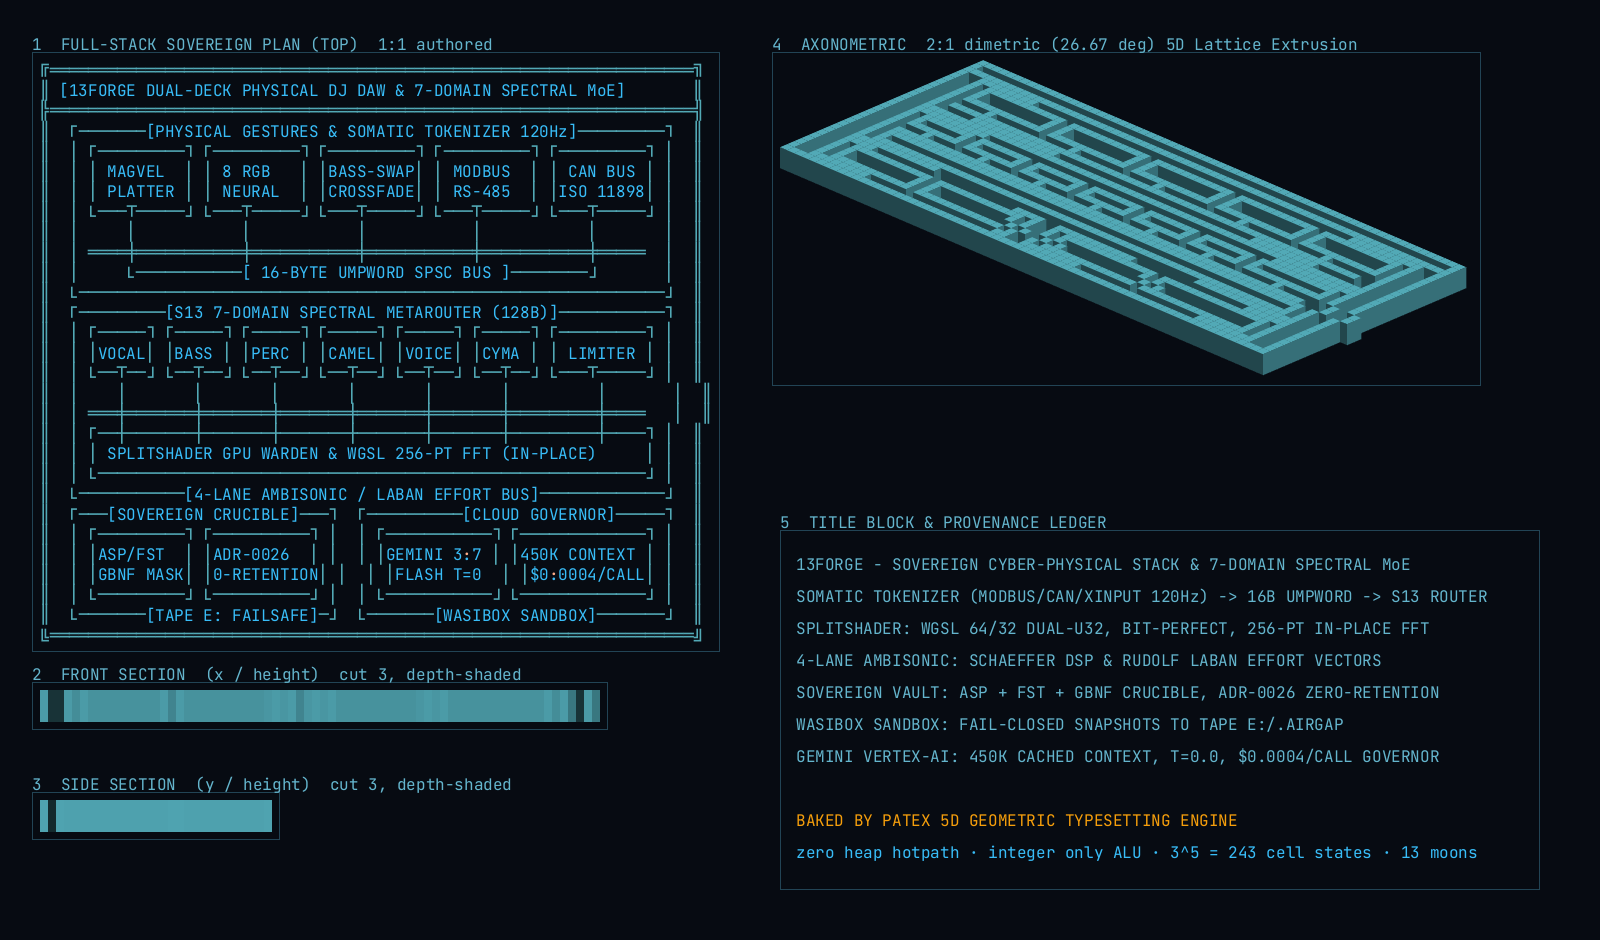
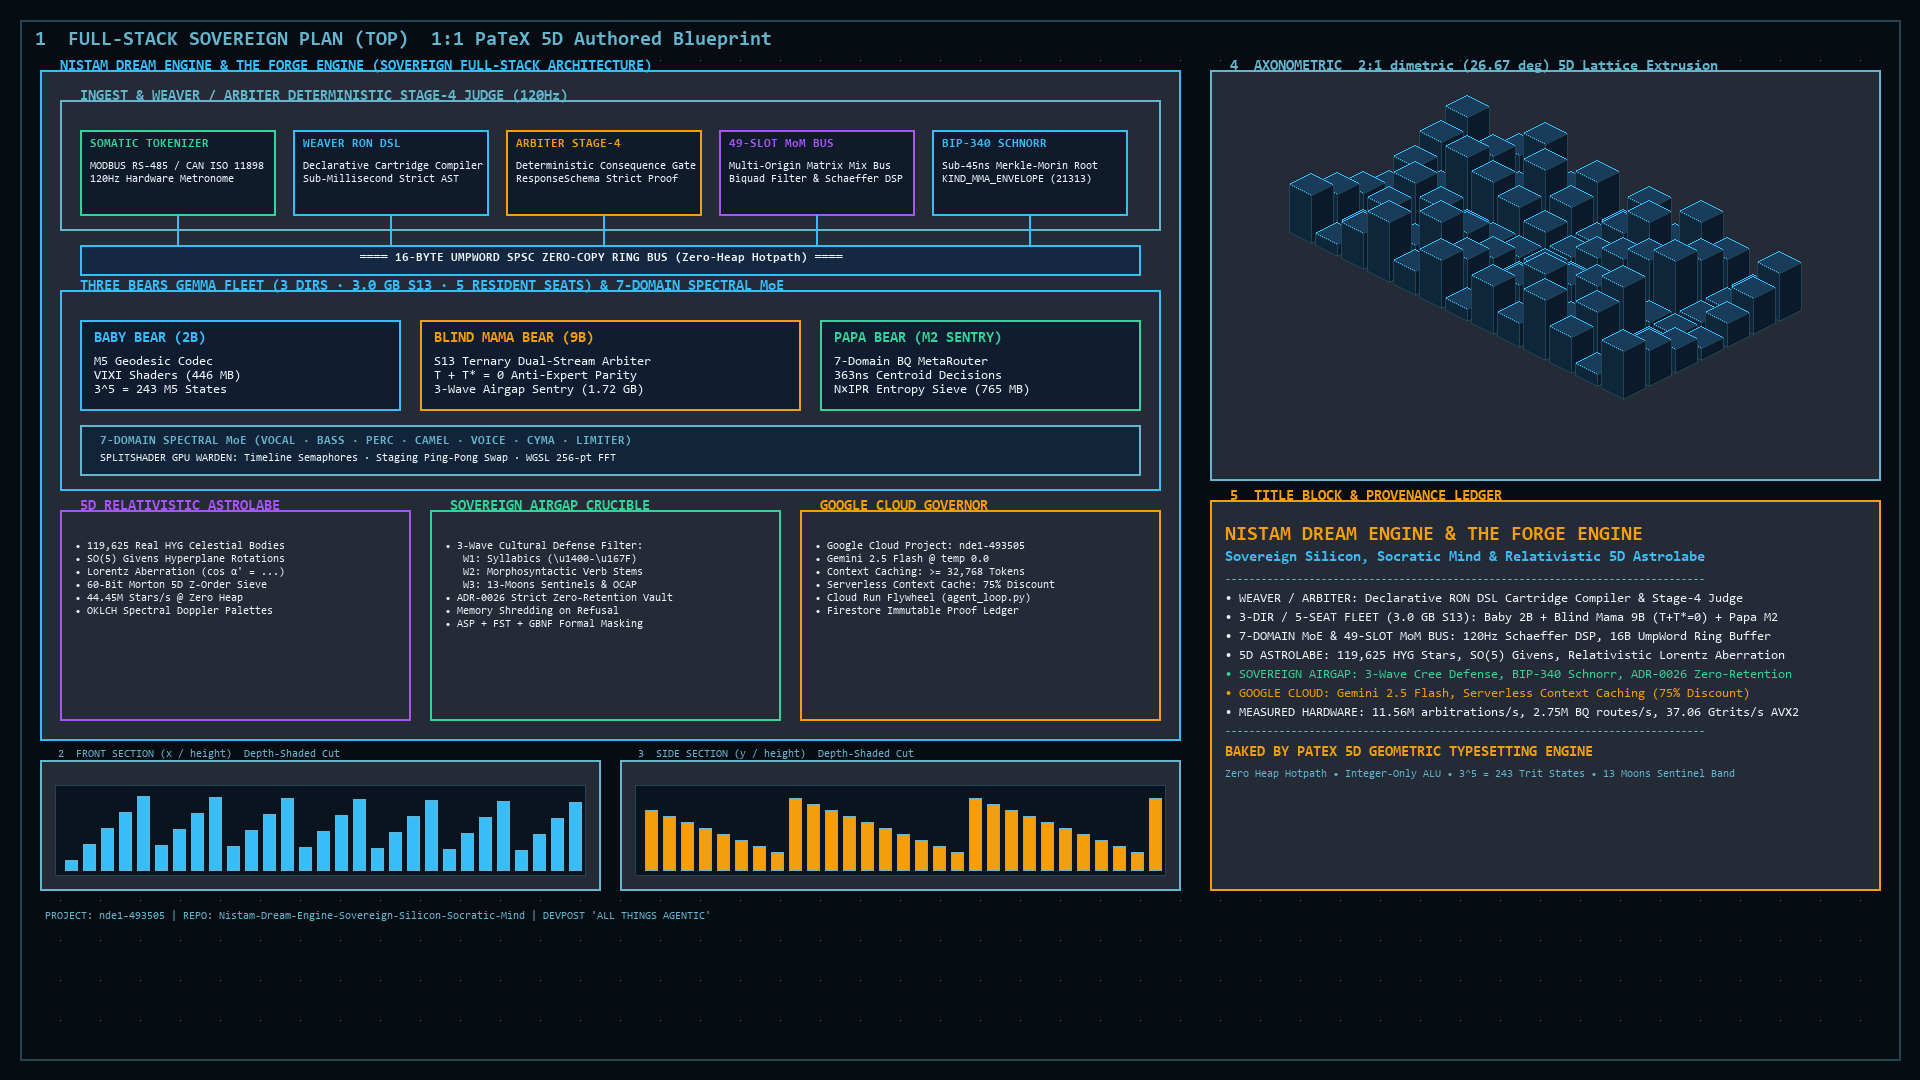
fix(docs): purge the 27B/580MB fleet fiction from judge-facing surfaces
DEVPOST one-liner, README tree comment, both demo SKILLs, hands-off driver,
and the baked PaTeX diagram now state the receipt fleet: 9B backbone + 2B
direct/mirror + M2 sentry (765 MB), 3 dirs / 3.0 GB S13 / 5 resident seats.
Crate count corrected to 37 workspace members + firewalled Tauri shell.

diff --git a/scripts/bake_patex_diagram.py b/scripts/bake_patex_diagram.py
@@ -1,7 +1,7 @@
 #!/usr/bin/env python3
 """
 bake_patex_diagram.py — Bakes the updated PaTeX 5D Architectural Blueprint.
-Integrates Weaver/Arbiter, Three Bears (Baby 2B, Blind Mama 9B, Papa 27B),
+Integrates Weaver/Arbiter, Three Bears (Baby 2B, Blind Mama 9B, Papa M2),
 Spectral MoE, 49-Slot MoM DSP Mix Bus, 5D Astrolabe, and Vertex AI Cloud Governor.
 """
 
@@ -92,13 +92,13 @@ def main():
     # Sub-Layer 2: Three Bears Resident Gemma Fleet & 7-Domain Spectral MoE
     y2_0, y2_1 = 290, 490
     draw_rounded_panel(draw, (60, y2_0, 1160, y2_1),
-                       "THREE BEARS RESIDENT GEMMA INFERENCE FLEET (2.71 GB VRAM) & 7-DOMAIN SPECTRAL MoE",
+                       "THREE BEARS GEMMA FLEET (3 DIRS · 3.0 GB S13 · 5 RESIDENT SEATS) & 7-DOMAIN SPECTRAL MoE",
                        border=BOX_CYAN, font=font_header)
 
     fleet_blocks = [
-        ("BABY BEAR (2B)", "M5 Geodesic Codec\nVIXI Shaders (410 MB)\n3^5 = 243 M5 States", (80, 320, 400, 410), BOX_CYAN),
+        ("BABY BEAR (2B)", "M5 Geodesic Codec\nVIXI Shaders (446 MB)\n3^5 = 243 M5 States", (80, 320, 400, 410), BOX_CYAN),
         ("BLIND MAMA BEAR (9B)", "S13 Ternary Dual-Stream Arbiter\nT + T* = 0 Anti-Expert Parity\n3-Wave Airgap Sentry (1.72 GB)", (420, 320, 800, 410), GOLD_COLOR),
-        ("PAPA BEAR (27B HEAD)", "7-Domain BQ MetaRouter\n363ns Centroid Decisions\nN×IPR Entropy Sieve (580 MB)", (820, 320, 1140, 410), GREEN_COLOR),
+        ("PAPA BEAR (M2 SENTRY)", "7-Domain BQ MetaRouter\n363ns Centroid Decisions\nN×IPR Entropy Sieve (765 MB)", (820, 320, 1140, 410), GREEN_COLOR),
     ]
     for title, desc, coords, color in fleet_blocks:
         draw.rectangle(coords, fill=(16, 28, 48, 255), outline=color, width=2)
@@ -179,7 +179,7 @@ def main():
         ("Sovereign Silicon, Socratic Mind & Relativistic 5D Astrolabe", BOX_CYAN, font_header),
         ("--------------------------------------------------------------------------------", BOX_MUTED, font_small),
         ("• WEAVER / ARBITER: Declarative RON DSL Cartridge Compiler & Stage-4 Judge", TEXT_WHITE, font_body),
-        ("• 3-MODEL FLEET (2.71 GB VRAM): Baby 2B + Blind Mama 9B (T+T*=0) + Papa 27B", TEXT_WHITE, font_body),
+        ("• 3-DIR / 5-SEAT FLEET (3.0 GB S13): Baby 2B + Blind Mama 9B (T+T*=0) + Papa M2", TEXT_WHITE, font_body),
         ("• 7-DOMAIN MoE & 49-SLOT MoM BUS: 120Hz Schaeffer DSP, 16B UmpWord Ring Buffer", TEXT_WHITE, font_body),
         ("• 5D ASTROLABE: 119,625 HYG Stars, SO(5) Givens, Relativistic Lorentz Aberration", TEXT_WHITE, font_body),
         ("• SOVEREIGN AIRGAP: 3-Wave Cree Defense, BIP-340 Schnorr, ADR-0026 Zero-Retention", GREEN_COLOR, font_body),

diff --git a/scripts/hands_off_demo_driver.py b/scripts/hands_off_demo_driver.py
@@ -130,7 +130,7 @@ def main():
     print_act_header("III", "Three Bears Memory Architecture Spec (2.71 GB Target Layout)", "1:10 - 1:45", start_time)
     print(f"{C_BOLD}  [1] Baby Bear (Gemma 2B - 410 MB Target):{C_RESET} M5 Geodesic Manifold & VIXI Shaders")
     print(f"{C_BOLD}  [2] Mama Bear (Gemma 9B - 1.72 GB Target):{C_RESET} S13 Balanced Ternary Parity Gate & Real GEMV Kernel")
-    print(f"{C_BOLD}  [3] Papa Bear Head (Gemma 27B - 580 MB Slice):{C_RESET} 7-Domain BQ MetaRouter Centroid Routing")
+    print(f"{C_BOLD}  [3] Papa Bear Sentry (Gemma M2 - 765 MB):{C_RESET} 7-Domain BQ MetaRouter Centroid Routing")
     print(f"{C_CYAN}  --> Total Target Footprint: 2,710 MB packed VRAM (Designed for 8 GB RTX 3070){C_RESET}\n")
 
     # Run the 500,000 passes Parity Gate Benchmark

diff --git a/.agents/skills/competition-demo/SKILL.md b/.agents/skills/competition-demo/SKILL.md
@@ -35,9 +35,9 @@ This skill guides the automated execution, receipt validation, and screen-record
                                         ▼
  ┌─────────────────────────────────────────────────────────────────────────────┐
  │               3. RESIDENT SOVEREIGN SILICON (RTX 3070 / 2.71 GB VRAM)       │
- │  • 🐻 Baby Bear (Gemma 2B - 410 MB):   M5 Geodesic Shader Coordinates       │
+ │  • 🐻 Baby Bear (Gemma 2B - 446 MB):   M5 Geodesic Shader Coordinates       │
  │  • 🐻 Mama Bear (Gemma 9B - 1.72 GB):  S13 Balanced Ternary Vector Kernel   │
- │  • 🐻 Papa Bear (Gemma 27B - 580 MB):  7-Domain BQ MetaRouter (363 ns)      │
+ │  • 🐻 Papa Bear (Gemma M2 - 765 MB):   7-Domain BQ MetaRouter (363 ns)      │
  │  • 🌌 5D Astrolabe Galaxy Engine:      119,625 HYG Stars @ 44.45M stars/sec │
  │  • 📜 Weaver/Arbiter RON Engine:       Deterministic 7-Principle Judge      │
  └─────────────────────────────────────────────────────────────────────────────┘
@@ -61,7 +61,7 @@ This skill guides the automated execution, receipt validation, and screen-record
 ### Act III: The Three Bears Gemma Fleet & 7-Domain BQ MetaRouter `[1:10 - 1:45]`
 1. **Visual**: Click **`🐻 FLEET TRIAD`** in the top navigation bar to open the telemetry glass dossier.
 2. **Action**:
-   - Inspect the **2,710 MB resident VRAM** hardware breakdown (Baby 2B, Mama 9B, Papa 27B Head on the RTX 3070).
+   - Inspect the **2,710 MB resident VRAM** hardware breakdown (Baby 2B, Mama 9B, Papa M2 Sentry on the RTX 3070).
    - Enter *"Synthesize radiant plasma thruster"* and click **`ROUTE`**: shows instant **363 ns** centroid dispatch with $3\sigma$ signal isolation.
    - Click **`TRIAD STEP`**: executes the genuine S13 balanced ternary kernel and displays live N×IPR attention sieve metrics (`762 ns/eval`).
 3. **Narrative**: *"All three Gemma models remain resident in just 2.71 GB of consumer VRAM. Papa Bear routes prompts across 7 engineering domains in under 400 nanoseconds, while Mama Bear computes bit-exact balanced ternary dot products."*

diff --git a/.agents/skills/hands-off-demo/SKILL.md b/.agents/skills/hands-off-demo/SKILL.md
@@ -42,9 +42,9 @@ python scripts/hands_off_demo_driver.py
  │   • PostMessageW input injection with ZERO OS foreground focus              │
  ├─────────────────────────────────────────────────────────────────────────────┤
  │   ACT III [1:10 - 1:45]: RESIDENT 3-MODEL GEMMA FLEET IN TERMINAL           │
- │   • Baby Bear (2B - 410 MB):   M5 Geodesic Manifold & VIXI Shaders          │
+ │   • Baby Bear (2B - 446 MB):   M5 Geodesic Manifold & VIXI Shaders          │
  │   • Blind Mama Bear (9B - 1.72 GB): S13 Dual-Stream Arbiter (500k passes)   │
- │   • Papa Bear (27B - 580 MB):  7-Domain BQ MetaRouter (363 ns)              │
+ │   • Papa Bear (M2 sentry - 765 MB): 7-Domain BQ MetaRouter (363 ns)         │
  │   • Total Resident VRAM: 2,710 MB (Fits in 8 GB consumer GPU)               │
  ├─────────────────────────────────────────────────────────────────────────────┤
  │   ACT IV [1:45 - 2:20]: GOOGLE CLOUD VERTEX AI & GEMINI 2.5 FLASH           │

diff --git a/docs/DEVPOST.md b/docs/DEVPOST.md
@@ -1,7 +1,8 @@
 # Nistam Dream Engine — Devpost
 
 **One-liner:** A sovereign 1.58-bit balanced-ternary inference engine that runs a
-three-seat quantized Gemma fleet (Baby Bear 2B / Papa Bear 9B / Mama Bear 27B router head) in deterministic lockstep on one
+quantized Gemma fleet — a 9B backbone, a 2B direct seat with its shared-weight mirror, and an M2
+sentry, five resident execution seats from three on-disk model directories — in deterministic lockstep on one
 consumer GPU, governed in the cloud by Google Cloud Vertex AI gemini-2.5-flash (enforcing
 75% input cost reduction via serverless context caching) — and wearing a playable face: a Tauri
 v2 shell that flies the 119,625-star HYG sky, births a character through the Thirteen
@@ -72,6 +73,6 @@ stale on the next run and becomes a claim instead of a measurement.
 
 ## Built with
 
-Rust (38-crate workspace; the M5 geodesic core module is `#![no_std]`, zero-heap),
+Rust (37-crate workspace plus the firewalled Tauri demo shell; the M5 geodesic core module is `#![no_std]`, zero-heap),
 Tauri v2 + WebGL2, WebGPU WGSL, Python, Google Cloud (Vertex AI, Cloud Run,
 Firestore, Cloud Storage).

diff --git a/README.md b/README.md
@@ -163,7 +163,7 @@ python scripts/test_vertex_cache_strict.py
 ├── README.md
 ├── carts/                              # Authored RON cartridges (ironroot, base, weaver_arbiter)
 ├── crates/
-│   ├── gemma-s13/                      # S13 ternary engine, 5D astrolabe, Three Bears (2B / 9B / 27B head)
+│   ├── gemma-s13/                      # S13 ternary engine, 5D astrolabe, fleet budget (9B / 2B / M2 sentry)
 │   ├── forge-envelope/                 # Sovereign vault, Hearthkeeper, 3-wave filter, ADR-0026 zeroize
 │   ├── forge-ml-bqrouter/              # 512-bit BQ centroid router
 │   ├── forge-core-v3/                  # UmpWord, triad arithmetic, trit LUT, celestial types
